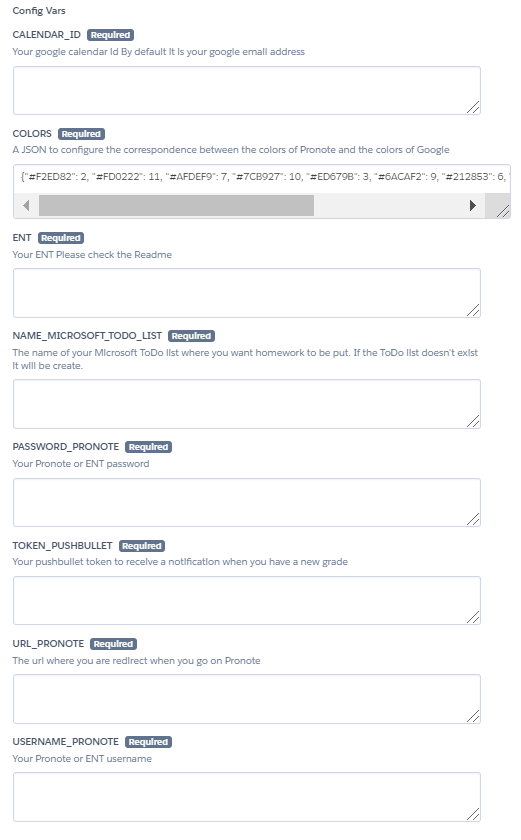
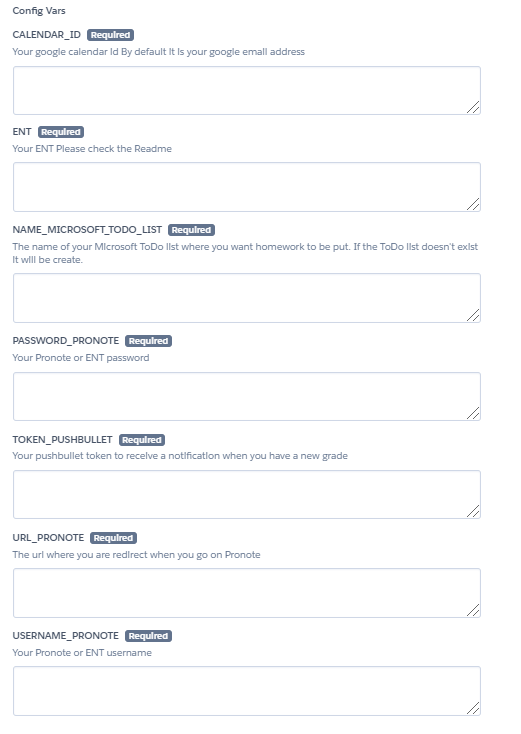
auto convert color for Google Calendar API

diff --git a/PronoteBot.py b/PronoteBot.py
@@ -1,6 +1,9 @@
 import pronotepy
 from apiclient.discovery import build
 from apscheduler.schedulers.background import BackgroundScheduler
+from PIL.ImageColor import getrgb
+from skimage import color as cl
+from math import sqrt
 from config import session, Config
 from ENTs import ents
 from datetime import *
@@ -15,14 +18,13 @@ jourSemaine = ("Lundi", "Mardi", "Mercredi", "Jeudi",
 
 class PronoteBot:
     def __init__(self,
-            urlPronote,
-            usernamePronote,
-            mdpPronote,
-            ent,
-            tokenPushBullet,
-            calendar_id,
-            listeToDo,
-            colors={"#F2ED82": 2, "#FD0222": 11, "#AFDEF9": 7, "#7CB927": 10, "#ED679B": 3, "#6ACAF2": 9, "#212853": 6, "#C0C0C0": 8, "#FFFF00": 5, "#A49E6C": 4, "#144897": 1}):
+                 urlPronote,
+                 usernamePronote,
+                 mdpPronote,
+                 ent,
+                 tokenPushBullet,
+                 calendar_id,
+                 listeToDo):
         # déclaration des variables globales
         self.urlPronote = urlPronote
         self.usernamePronote = usernamePronote
@@ -31,7 +33,6 @@ class PronoteBot:
         self.tokenPushBullet = tokenPushBullet
         self.calendar_id = calendar_id
         self.listeToDo = listeToDo
-        self.colors = json.loads(colors) if type(colors) == str else colors
 
         self.credentialsGoogle = None
         self.service = None
@@ -87,6 +88,29 @@ class PronoteBot:
         else:
             print("You don't want to use Pushbullet for notifications")
 
+    @staticmethod
+    def convertColor(color):
+        color = cl.rgb2lab(getrgb(color))
+        colorIds = {
+        '#7986cb': 1,
+        '#33b679': 2,
+        '#8e24aa': 3,
+        '#e67c73': 4,
+        '#f6c026': 5,
+        '#f5511d': 6,
+        '#039be5': 7,
+        '#616161': 8,
+        '#3f51b5': 9,
+        '#0b8043': 10,
+        '#d60000': 11
+        }
+        distances = []
+        for colorId, id in colorIds.items():
+            colorIdLab = cl.rgb2lab(getrgb(colorId))
+            distances.append((sqrt((color[0] - colorIdLab[0])**2 + (
+                color[1] - colorIdLab[1]) ** 2 + (color[2] - colorIdLab[2])**2), id))
+        return min(distances)[1]
+
     def coursToAgenda(self):
         # récupère les cours sur Pronote et créé un event sur Google Calendar
         self.client.session_check()
@@ -110,10 +134,6 @@ class PronoteBot:
                                 salle = cour.classroom
                             else:
                                 salle = ''
-                        if cour.background_color in self.colors:
-                            couleur = self.colors[cour.background_color]
-                        else:
-                            couleur = '0'
                         id = cour.teacher_name[0:3] + cour.subject.name[0:4] + \
                             salle[0:3] + \
                             start_time.strftime("%Y-%m-%dT%H:%M:%S")
@@ -134,7 +154,7 @@ class PronoteBot:
                             'reminders': {
                                 'useDefault': True,
                             },
-                            'colorId': couleur
+                            'colorId': self.convertColor(cour.background_color)
                         }
                         try:
                             # creer l'evenement
@@ -187,10 +207,6 @@ class PronoteBot:
                         if len(event['items']) == 0:
                             end_time = cour.end
                             timezone = 'Europe/Paris'
-                            if cour.background_color in self.colors:
-                                couleur = self.colors[cour.background_color]
-                            else:
-                                couleur = '0'
                             event = {
                                 'summary': cours,
                                 'location': salle,
@@ -210,7 +226,7 @@ class PronoteBot:
                                         {'method': 'popup', 'minutes': 10},
                                     ],
                                 },
-                                'colorId': couleur
+                                'colorId': self.convertColor(cour.background_color)
                             }
                             try:
                                 # créé l'evenement

diff --git a/main.py b/main.py
@@ -15,8 +15,7 @@ if __name__ == "__main__":
             os.environ.get('ENT'),
             os.environ.get('TOKEN_PUSHBULLET'),
             os.environ.get('CALENDAR_ID'),
-            os.environ.get('NAME_MICROSOFT_TODO_LIST'),
-            os.environ.get('COLORS', '{"#F2ED82": 2, "#FD0222": 11, "#AFDEF9": 7, "#7CB927": 10, "#ED679B": 3, "#6ACAF2": 9, "#212853": 6, "#C0C0C0": 8, "#FFFF00": 5, "#A49E6C": 4, "#144897": 1}')
+            os.environ.get('NAME_MICROSOFT_TODO_LIST')
             )
     bot.run()
     # permet de garder l'application ouverte en permanence

diff --git a/README.md b/README.md
@@ -9,8 +9,7 @@ A bot which can do many things with Pronote Easily deployable on Heroku
 * **Configure variable** with your informations\
 ![config](./images/config-var.png)
   1. The calendar Id is by defauld you google email address
-  2. You can you can leave the default value for COLORS
-  3. Your ent (leave blank if you don't have an ENT):
+  2. Your ent (leave blank if you don't have an ENT):
     * atrium_sud => ENT Atrium Sud
     * ac_reims => ENT AC Reims
     * occitanie_montpellier => ENT Occitanie Montpellier
@@ -21,15 +20,15 @@ A bot which can do many things with Pronote Easily deployable on Heroku
     * ENT AC Orleans-Tours => ac_orleans_tours
     * ENT MonBureauNumerique (Grand Est) => monbureaunumerique
     * ENT Mon collège Essonne => ent_essonne
-  4. The name of your Microsoft ToDo list
-  5. Your Pronote or ENT password
-  6. Your pushbullet token :
+  3. The name of your Microsoft ToDo list
+  4. Your Pronote or ENT password
+  5. Your pushbullet token :
     * [go on this website](https://www.pushbullet.com/)
     * create an **account**
     * **install** the pushbullet app on your phone
     * [go on this page](https://www.pushbullet.com/#settings) then create an **Access Token** and **past it** in the config var field
-  7. The url where you are redirect when you go on Pronote
-  8. Your Pronote or ENT username
+  6. The url where you are redirect when you go on Pronote
+  7. Your Pronote or ENT username
 * **Deploy** app
 * Click on **manage app**\
 ![manage](./images/manage-app.png)
